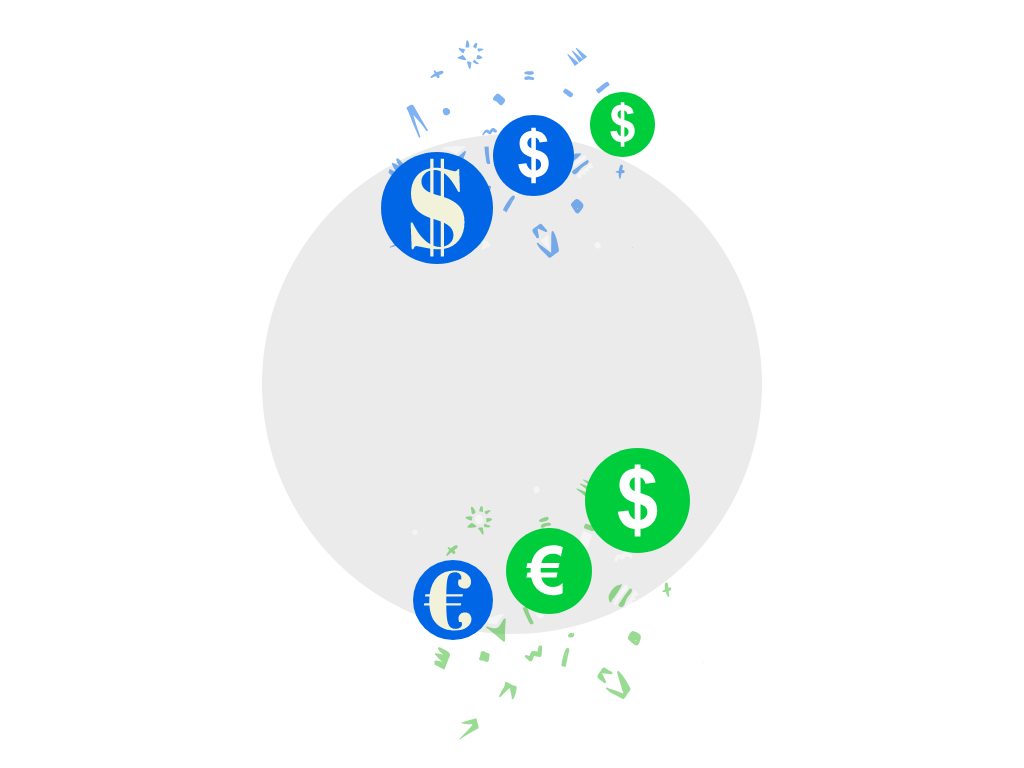
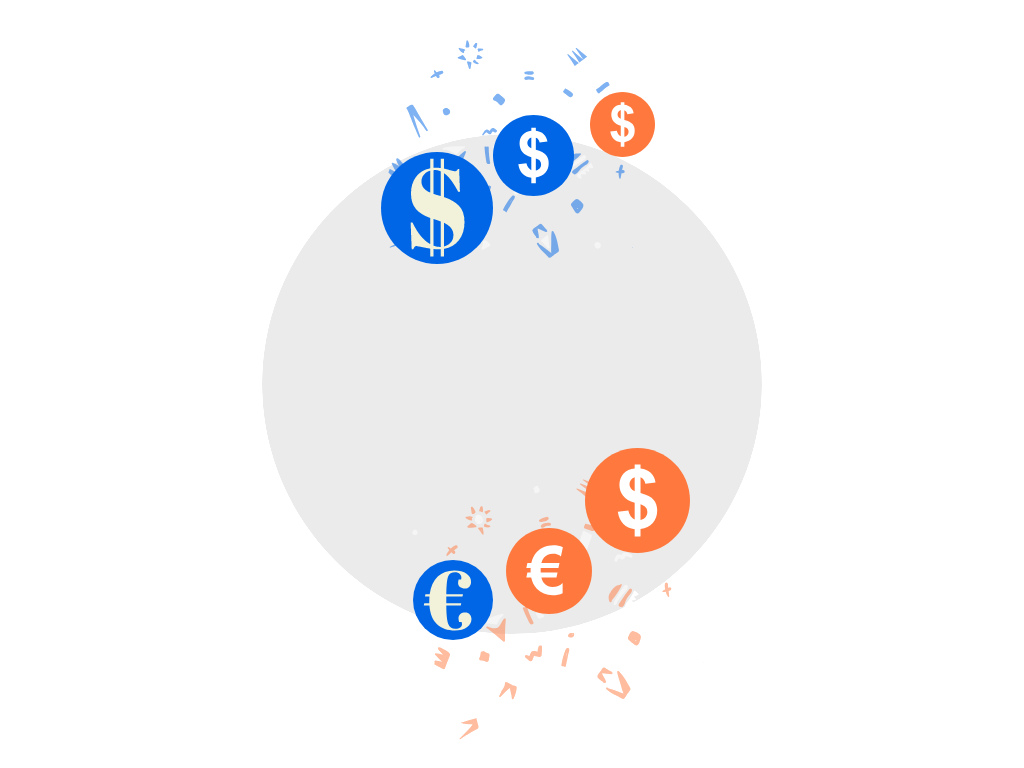
Soles to usd form created

diff --git a/pages/templates/pages/index.html b/pages/templates/pages/index.html
@@ -2,7 +2,7 @@
 {% load static %}
 
 {% block title %}
-<title>Careto | Tu rostro es tu tarjeta</title>
+<title>Cambioo | cambioo tu plata online!</title>
 {% endblock %}
 
 	
@@ -11,26 +11,60 @@
 			<section class="section">
 				<div class="face-pay columns animated fadeIn">
 					<div class="column">
-						<img src="{% static 'img/cambio.png' %}" alt="face pay">
+						<img src="{% static 'img/hand.png' %}" alt="face pay">
 					</div>
 					<div class="column">
-						<h1 class="title main-title">Relax.. tu dinero está en camino</h1>
+						<h1 class="title main-title">Cambia tus soles y dólares en perú</h1>
+						<div class="bg4-content contact-form">
+			<form id="theForm" method="POST" class="contact-form">
+				{% csrf_token %}
+				<div class="field">
+					<label class="label" for="envias">Envías</label>
+					<div class="control">
+						<input class="input" id="envias" required="true" onkeyup="soles_to_usd();" type="text" value="" name="envias">
+					</div>
+				</div>
+
+				<div class="field">
+					<label class="label" for="recibes">Recibes</label>
+					<div class="control">
+						<input class="input" id="recibes" required="true" onkeyup="usd_to_soles();" type="text" value="" name="recibes">
+					</div>
+				</div>
+
+				<div class="">
+    				<input type="submit" class="contact-button button btn-main" value="CAMBIAR">
+  				</div>
+			</form>
+			
+		</div>
 					</div>
 				</div>
 			</section>
 			<section id="product">
 				<div class="bg1 columns">
 					<div class="column">
-						<h2 class="title">Nuevas experiecias de pago en tu comercio.</h2>
+						<h2 class="title">Cambia tus soles por dolares.</h2>
 						<p>
-							Permite a tus clientes pagar usando reconocimiento facial en tu página web o comercio físico.
+							Cambia tus soles por dolares desde la comodidad de tu oficina.
 						</p>
 					</div>
 					<div class="column">
-						<img src="{% static 'img/new-payment-experience.png' %}" alt="product">
-						
+						<img src="{% static 'img/cambio.png' %}" alt="face pay">
 					</div>
 				</div>
 			</section>
 		</section>
+
+		<script>
+			function soles_to_usd() {
+				let soles = document.getElementById("envias").value
+				document.getElementById("recibes").value = soles * 3
+			}
+
+			function usd_to_soles() {
+				let usd = document.getElementById("recibes").value
+				document.getElementById("envias").value = usd / 3
+			}
+		</script>
 {% endblock %}

diff --git a/pages/templates/pages/base.html b/pages/templates/pages/base.html
@@ -22,7 +22,7 @@
 				<nav class="navbar is-fixed-top" role="navigation" arial-label="main navigation">
 					<div class="navbar-brand">
 						<a class="navbar-item" href="{% url 'home-page' %}">
-							<img src="{% static 'img/cambioo_logo.png' %}" alt="face-recog">
+							<img src="{% static 'img/logo_bar.png' %}" alt="face-recog">
 						</a>
 						<a role="button" class="navbar-burger burger" aria-label="menu" aria-expanded="false" data-target="navbarBasicExample">
       						<span aria-hidden="true"></span>
@@ -43,7 +43,7 @@
 		{% endblock %}
 		<footer class="footer">
 			<div class="content has-text-centered">
-				<strong>Careto 2019</strong> - Tu rostro es tu tarjeta
+				<strong>Cambioo 2019</strong> - cambioo tu plata online!
 			</div>
 		</footer>
 	</main>

diff --git a/pages/static/styles/index.css b/pages/static/styles/index.css
@@ -23,7 +23,7 @@ nav a {
 }
 
 .btn-main {
-	background: #00DA1C;
+	background: #FF4340;
 	color: white;
 	font-weight: bold;
 }
@@ -60,8 +60,8 @@ p {
 }
 
 .main-title {
-	margin-top: 18%;
-	font-size: 50px;
+	margin-top: 1%;
+	font-size: 30px;
 	padding: 20px;
 }
 
@@ -70,7 +70,7 @@ p {
 }
 
 .face-pay div img {
-	width: 98%;
+	width: 78%;
 }
 
 .bg1 {
@@ -157,9 +157,9 @@ p {
 }
 
 .contact-form {
-	padding: 1%;
-	width: 75%;
+	width: 95%;
 	margin: auto;
+	margin-top: 30px;
 }
 
 .contact-button {
